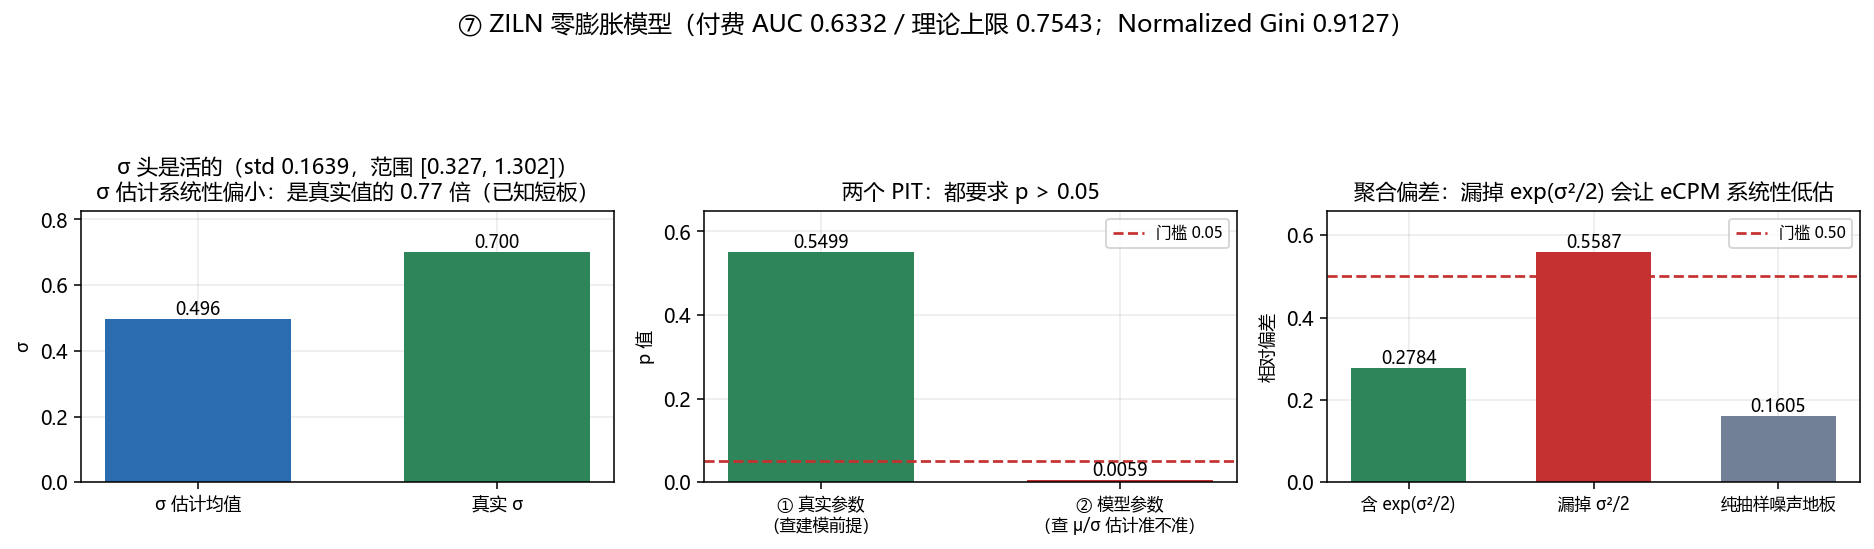
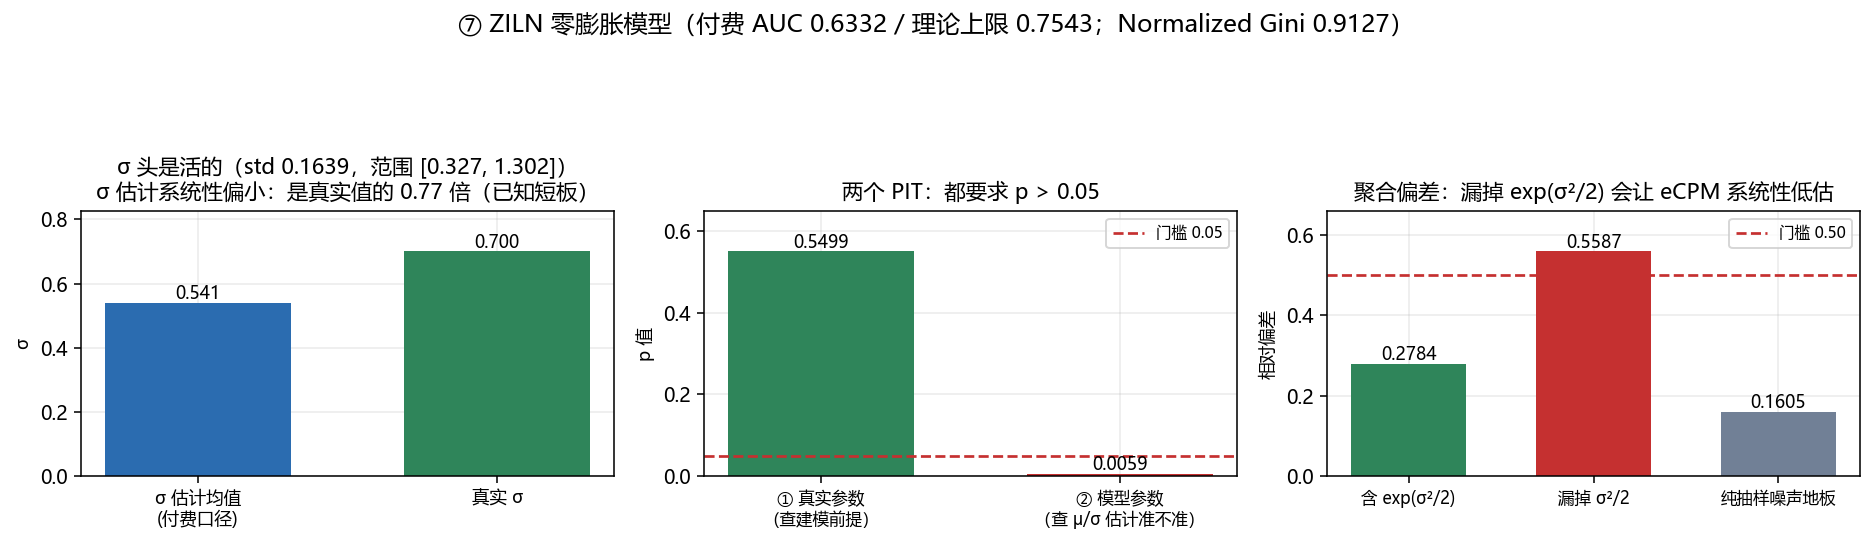
重新测试

diff --git a/tests/test_readme_numbers.py b/tests/test_readme_numbers.py
@@ -1,0 +1,224 @@
+"""README 里的数字必须能在 ``artifacts/metrics/*.json`` 里找到。
+
+这个文件的**唯一职责**是守住本项目那条对外承诺：
+
+    「README 里每个数字都来自真实运行输出，不编造」
+
+为什么值得单独一个测试文件
+--------------------------
+因为「数字错了」在这类项目里**不会报任何错**。模型照跑、图照出、测试照过，
+错的是一个手抄进文档的常量 —— 而读者看到的是它。
+
+而且踩过的坑是有规律的一类：**算在了错的对象上**。
+本项目已经栽过三次，每次的症状都一样「看着挺像那么回事」：
+
+  1. 画像宽度数了 ``profile.columns``（含 17 个簿记/隐变量列）→ 报 209，
+     真值 192；连带噪声占比的分母被撑大，44.8% 报成 41.1%。
+  2. 同一个 ``y_conv_w168`` 在曝光级是 0.0030、在点击级是 0.0575 —— 差了 19 倍。
+  3. ``sigma.mean``（全体，含 90% 的 y=0）和 ``ratio_to_true``（只有付费样本）
+     并排存进 json，名字像一对、实际是两个总体；两条 0.4964/0.70 = 0.709
+     与 0.772 对不上。``fig07`` 照着画也错了：柱子画 0.4964、标注写 0.77 倍。
+
+第 3 条就是写这个文件的直接原因 —— 它当初是从**文档**里看出来的，
+不是从测试里。所以补上这一层。
+
+怎么测（刻意选了「查字符串」而不是「解析 markdown」）
+----------------------------------------------------
+解析表格对 README 的排版改动极其脆弱（加一列、换个对齐就红），
+而这里真正要防的是**数值本身漂了**，不是排版。
+所以反过来做：从 json 取真值 → 按 README 声明的精度渲染成字符串 →
+断言它**确实出现在 README 文本里**。
+
+代价是：README 把某个数改成同值的另一种写法（0.0500 → 0.05）会误报。
+这个代价可以接受 —— 那种改动本来也该顺手看一眼。
+
+⚠ 本文件只用 ``assert``，不依赖 pytest 特有功能，
+   所以 ``pytest`` 和 ``run_tests.py`` 两条路都能跑（与其余测试一致）。
+"""
+from __future__ import annotations
+
+import json
+import os
+from pathlib import Path
+
+import pytest
+
+ROOT = Path(__file__).resolve().parents[1]
+METRIC_DIR = ROOT / "artifacts" / "metrics"
+README = ROOT / "README.md"
+
+SCALE = os.environ.get("ADREC_SCALE", "mini")
+
+STEPS = ["01_data", "02_features", "03_ranker", "04_recall", "05_ziln",
+         "06_bidding", "07_experiment", "08_bidding_sim", "09_figures"]
+
+
+@pytest.fixture(scope="module")
+def doc() -> str:
+    """README 全文。缺了就没法测，明确跳过而不是报一堆级联失败。"""
+    if not README.exists():
+        pytest.skip("README.md 不存在")
+    return README.read_text(encoding="utf-8")
+
+
+@pytest.fixture(scope="module")
+def js() -> dict[str, dict]:
+    """九个指标 json。缺任何一个都跳过 —— 这里的断言全是跨文件的。"""
+    missing = [s for s in STEPS if not (METRIC_DIR / f"{s}_{SCALE}.json").exists()]
+    if missing:
+        pytest.skip(f"链路未跑完，缺 {missing} —— 先跑：python run_all.py "
+                    f"--scale {SCALE}")
+    return {s: json.loads((METRIC_DIR / f"{s}_{SCALE}.json").read_text("utf-8"))
+            for s in STEPS}
+
+
+def must(doc: str, needle: str, why: str) -> None:
+    """断言 ``needle`` 出现在 README 里。
+
+    ``why`` 说明这个数在讲什么 —— 失败信息里带上它，
+    否则只看到「0.8110 not found」根本不知道是哪个指标漂了。
+    """
+    assert needle in doc, (
+        f"README 里找不到 {needle!r}（{why}）。"
+        f"要么指标 json 变了而文档没跟着改，要么文档里的数从来就没对过。")
+
+
+# ==================================================== 各环节的头条数字
+
+
+def test_data_headline_numbers(doc, js):
+    """职责点 1 的数据地基：基率 + 假负率。"""
+    d = js["01_data"]
+    must(doc, f"{d['ctr']:.4f}", "01 CTR 基率")
+    must(doc, f"{d['cvr']:.4f}", "01 CVR|click 基率")
+    fn = {r["window_h"]: r["fn_rate"] for r in d["false_negative"]}
+    for w in (6, 24, 72, 168):
+        must(doc, f"{fn[w] * 100:.1f}%", f"01 假负率（{w}h 观测窗口）")
+
+
+def test_feature_layer_numbers(doc, js):
+    """职责点 1 的特征与分层。
+
+    特别守住 **192** 这个数：它当初是 209（数错了对象），
+    而 209 会让「噪声占比」的分母被撑大、44.8% 被低估成 41.1%。
+    """
+    f = js["02_features"]
+    assert f["features"]["profile_columns"] == 192, (
+        "画像宽度不是 192 —— 若改了特征设计，README §4.2 的列数账要同步改")
+    must(doc, "192", "02 画像宽表列数")
+    must(doc, f"{f['features']['profile_noise_share'] * 100:.1f}%",
+         "02 噪声+冗余占比")
+    must(doc, f"{f['pca']['cumulative_variance']:.4f}", "02 PCA 累计方差")
+    must(doc, f"{f['kmeans']['ari_vs_true_segment']:.4f}", "02 ARI vs 真值分层")
+    must(doc, f"{f['kmeans']['silhouette']:.4f}", "02 轮廓系数")
+
+
+def test_ranker_ablation_numbers(doc, js):
+    """职责点 2 的排序消融：LR < FM < DeepFM 三个 AUC 都要对得上。"""
+    ab = {r["variant"]: r for r in js["03_ranker"]["ablation"]}
+    for v, name in (("lr", "LR"), ("fm", "FM"), ("deepfm", "DeepFM")):
+        must(doc, f"{ab[v]['auc_ctr']:.4f}", f"03 {name} 的 CTR AUC")
+    # 相对提升是 README 的核心主张，单独钉一次
+    gap = ab["deepfm"]["auc_ctr"] - ab["fm"]["auc_ctr"]
+    assert gap > 0.015, f"DeepFM 没打赢 FM 门槛（差 {gap:.4f}）"
+
+
+def test_recall_and_ziln_numbers(doc, js):
+    """职责点 2 的召回与 ZILN。"""
+    ps = {r["split"]: r["recall@50"] for r in
+          js["04_recall"]["recall"]["per_split"]}
+    must(doc, f"{ps['test']:.4f}", "04 Recall@50（test 折）")
+    must(doc, f"{js['04_recall']['recall']['popularity_baseline']:.4f}",
+         "04 热度基线")
+    z = js["05_ziln"]["metrics"]
+    must(doc, f"{z['auc_pay']:.4f}", "05 付费分类 AUC")
+    must(doc, f"{z['pit_assumption_pvalue']:.4f}", "05 前提 PIT p 值")
+    must(doc, f"{z['normalized_gini']:.4f}", "05 Normalized Gini")
+
+
+def test_ziln_sigma_caliber_is_not_conflated(doc, js):
+    """**回归守卫**：σ̂ 的两个口径不许被配成一对。
+
+    σ 是「付费金额」那一支的尺度参数，付费用户只占 10%。所以：
+
+        付费口径  mean_pos = 0.5405  ← 只有它能跟真实 σ=0.70 比 → 比值 0.772
+        全体口径  mean_all = 0.4964    含 90% 的 y=0 → 0.4964/0.70 = 0.709
+
+    踩过的坑：json 里曾经并排存 ``mean`` 与 ``ratio_to_true``，
+    名字像一对、实际是两个总体，于是 0.4964 配着 0.772 —— 自相矛盾。
+    README 也照抄了，``fig07`` 更是画了 0.4964 的柱子、标「0.77 倍」。
+
+    这里锁死两件事：① json 里每个比值都能由它**同名**的均值还原；
+    ② README 里出现的 0.772 必须与 0.5405 同处一句话，不许跟 0.4964 混。
+    """
+    sg = js["05_ziln"]["sigma"]
+    t = sg["true_sigma"]
+
+    # ① json 自洽：比值必须配得上同名均值
+    assert abs(sg["mean_pos"] / t - sg["ratio_pos_to_true"]) < 1e-9, \
+        "ratio_pos_to_true 不是 mean_pos/true_sigma —— 两个口径又串了"
+    assert abs(sg["mean_all"] / t - sg["ratio_all_to_true"]) < 1e-9, \
+        "ratio_all_to_true 不是 mean_all/true_sigma —— 两个口径又串了"
+
+    # 两个口径确实不同（否则这个测试是空转）
+    assert abs(sg["mean_pos"] - sg["mean_all"]) > 0.01, \
+        "两个口径算出同一个数 —— 那这个测试守不住任何东西，该删"
+
+    # ② 这两个数都在文档里
+    must(doc, f"{sg['mean_pos']:.4f}", "05 σ̂ 付费口径均值")
+    must(doc, f"{sg['mean_all']:.4f}", "05 σ̂ 全体口径均值")
+    must(doc, f"{sg['ratio_pos_to_true']:.3f}", "05 σ̂ 付费口径 vs 真实 σ 的比值")
+
+
+def test_bidding_numbers(doc, js):
+    """职责点 3：合成市场的六策略对照。"""
+    b = js["06_bidding"]
+    must(doc, f"+{b['headline']['lift_vs_fixed_bid'] * 100:.0f}%",
+         "06 B4 相对 B0 的价值提升")
+    must(doc, f"{b['headline']['ratio_b4_to_oracle']:.4f}", "06 B4 占上帝视角比例")
+    # 对偶梯度符号 —— 这条写反了整套控制就反向发散
+    g = b["dual_gradient_sign"]
+    assert g["overspend_lowers_alpha"] is True, "超支时 α 没有下降 —— 符号写反了"
+    assert g["underspend_raises_alpha"] is True, "欠花时 α 没有上升 —— 符号写反了"
+
+
+def test_experiment_numbers(doc, js):
+    """职责点 4：AA 空跑 + AB 主指标 + CUPED。"""
+    e = js["07_experiment"]
+    must(doc, f"{e['aa']['ks_pvalue']:.4f}", "07 AA 的 KS 均匀性 p 值")
+    must(doc, f"{e['aa']['false_positive_rate'] * 100:.2f}%", "07 AA 假阳性率")
+    must(doc, f"+{e['ab']['primary']['lift'] * 100:.2f}%", "07 AB 主指标相对提升")
+    must(doc, f"{e['ab']['cuped']['variance_reduction'] * 100:.2f}%",
+         "07 CUPED 方差下降")
+
+
+def test_real_model_bidding_numbers(doc, js):
+    """职责点 3 接真实模型那一版：水平系数 + 恒等性 + 最好变体。"""
+    s = js["08_bidding_sim"]
+    lc = s["setup"]["level_correction"]
+    for k, name in (("p_ctr", "pCTR"), ("p_cvr", "pCVR"), ("ltv", "LTV")):
+        must(doc, f"{lc[k]:.3f}", f"08 验证折上拟合的 {name} 水平系数")
+    ifx = s["identity_check"]
+    must(doc, f"{ifx['alpha_ratio_rel_dev'] * 100:.3f}%",
+         "08 水位之比相对 c 的偏差（协变性判据）")
+    best = s["best_variant"]
+    r = s["runs"][best]
+    must(doc, f"{r['ratio_b4_to_oracle']:.4f}", f"08 最好变体 {best} 的 B4/B5")
+    assert best == "dfm_raw", (
+        f"最好变体变成了 {best} —— README §6.7 的结论是按 dfm_raw 写的，要同步改")
+
+
+def test_budget_is_exogenous_across_runs(doc, js):
+    """08 的预算必须**外生且三次共用** —— 否则三个变体根本不可比。
+
+    B0（固定出价）与 B5（上帝视角）都与模型无关，所以三份仿真的这两个
+    策略必须逐位相同。若它们随模型变了，说明预算被偷偷接到了模型的
+    预测上，「同预算对比」这个前提就没了。
+    """
+    runs = js["08_bidding_sim"]["runs"]
+    for pol in ("B0_fixed", "B5_oracle"):
+        spends = [r["policies"][pol]["spend"] for r in runs.values()]
+        assert len(set(spends)) == 1, (
+            f"{pol} 的花费在三份仿真里不一致：{spends} —— "
+            f"预算不再外生，三个变体的对比不成立")
+    must(doc, "逐位相同", "08 预算外生性")

diff --git a/scripts/05_ziln.py b/scripts/05_ziln.py
@@ -188,9 +188,19 @@ def main() -> int:
     #
     # ⚠ 一开始我只做了 ②，p = 0.006，看着像「对数正态假设不成立、
     #    ZILN 从根上就是错的」。换成真实参数后 p 直接到 0.55 ——
-    #    **假设完全成立，是 σ̂ 估小了**（实测 σ̂ 均值约 0.39，
-    #    真实值 0.70）。把校准误差当成前提不成立，是最容易得出
+    #    **假设完全成立，是 σ̂ 估小了**（实测 σ̂ 均值 0.5405，
+    #    真实值 0.70，比值 0.772）。把校准误差当成前提不成立，是最容易得出
     #    反向结论的一步，所以这里两个都算、两个都报，门槛只压在 ① 上。
+    #
+    # ⚠ σ̂ 有**两个口径**，别混：σ 是「付费金额」这一头的尺度参数，
+    #    而付费用户只占 10%，所以
+    #        全体验证样本（含 90% 的 0）     mean_all = 0.4964
+    #        只取付费用户（y > 0）           mean_pos = 0.5405 ← 「估得准不准」看这个
+    #    拿 mean_all 去跟真实 σ=0.70 比会得出 0.709，与「偏小到 0.772」
+    #    的结论方向一致但数值对不上 —— 因为分母是对的、分子换了对象。
+    #    这条踩过：两个数一度以 ``mean`` / ``ratio_to_true`` 并排写进
+    #    metrics json，看起来像一对，实际是两个口径，连 fig07 都
+    #    照着画错（柱子画 0.4964、标注写 0.77 倍）。现在键名自带口径。
     #   ① 用**全表**的付费用户，不用验证折 —— 生成器的分布假设跟
     #      训练/验证怎么切没有任何关系，用满样本能把 KS 的统计功效
     #      从 88 个样本提到 352 个（388→88 会让 p 值纯靠抖动，
@@ -213,12 +223,14 @@ def main() -> int:
              else "前提不成立 ❌（生成器的金额分布实现有问题）")
     log.info("② 用**模型参数**：p = %.4f。这一步检验的是 μ̂/σ̂ 估得准不准，"
              "**不是**前提是否成立", pit_model)
-    log.info("σ̂ 均值 %.4f，真实值 %.4f，比值 %.2f —— "
+    log.info("σ̂ 均值 %.4f（**付费样本口径**，全体验证样本口径是 %.4f），"
+             "真实值 %.4f，比值 %.2f —— "
              "σ̂ 系统性偏小（是 %d 个用户级样本下这一头的已知短板，"
              "README 里如实记录）；σ̂ 偏小会放大 NLL 里的 "
-             "(ln y − μ̂)²/2σ̂² 项",
-             float(sigma[pos].mean()), cfg.ltv_sigma, sigma_ratio,
-             len(tr_idx))
+             "(ln y − μ̂)²/2σ̂² 项。**只有付费口径能跟真实 σ 比** —— "
+             "σ 描述的是 y>0 那一支的尺度",
+             float(sigma[pos].mean()), float(sigma.mean()),
+             cfg.ltv_sigma, sigma_ratio, len(tr_idx))
 
     # ---------------- 聚合偏差：这一步的核心 ----------------
     # 参照系的选择决定了这个数有没有意义，选错了就是白算：
@@ -294,11 +306,20 @@ def main() -> int:
                   "epochs": ZILN_EPOCHS, "batch": ZILN_BATCH,
                   "steps": int(n_steps),
                   "loss_first": losses[0], "loss_last": losses[-1]},
+        # ⚠ σ̂ 两个口径**必须分开存、键名自带口径**。
+        #    原先只有 ``mean``（全体，含 90% 的 y=0）和 ``ratio_to_true``
+        #    （只有付费样本）两个键并排 —— 名字看着是一对，实际是两个
+        #    总体，于是 json 自己跟自己矛盾（0.4964 配 0.772，而
+        #    0.4964/0.70 = 0.709）。fig07 照着画就画错了：柱子 0.4964、
+        #    标注「是真实值的 0.77 倍」。
+        #    比值只能配**付费口径** —— σ 是 y>0 那一支的尺度参数。
         "sigma": {"min": float(sigma.min()), "max": float(sigma.max()),
                   "std": float(sigma.std()),
-                  "mean": float(sigma.mean()),
+                  "mean_all": float(sigma.mean()),
+                  "mean_pos": float(sigma[pos].mean()),
                   "true_sigma": float(cfg.ltv_sigma),
-                  "ratio_to_true": sigma_ratio},
+                  "ratio_pos_to_true": sigma_ratio,
+                  "ratio_all_to_true": float(sigma.mean() / cfg.ltv_sigma)},
         "metrics": {"auc_pay": auc_pay, "auc_oracle": auc_oracle,
                     "pit_assumption_pvalue": pit_assumption,
                     "pit_model_pvalue": pit_model,

diff --git a/scripts/09_make_figures.py b/scripts/09_make_figures.py
@@ -355,10 +355,16 @@ def fig07(d, cfg) -> str | None:
         return None
     sg, m = d["sigma"], d["metrics"]
     fig, ax = plt.subplots(1, 3, figsize=(13.5, 3.9))
-    _bar(ax[0], ["σ 估计均值", "真实 σ"], [sg["mean"], sg["true_sigma"]],
+    # ⚠ 这里画 **mean_pos**（付费样本口径），不画 mean_all。
+    #    σ 是「付费金额」那一支的尺度参数，只有 y>0 的样本在估它；
+    #    全体验证样本里有 90% 是 y=0，把它们平均进来会把 σ̄ 拉到 0.4964，
+    #    跟真实 0.70 一比是 0.709 —— 而标注引的是比值 0.772，**柱子跟
+    #    标注对不上**。两个口径都在 json 里（mean_all / mean_pos），
+    #    图只画能跟真实 σ 比的那一个。
+    _bar(ax[0], ["σ 估计均值\n(付费口径)", "真实 σ"], [sg["mean_pos"], sg["true_sigma"]],
          [C["b"], C["g"]], f"σ 头是活的（std {sg['std']:.4f}，"
          f"范围 [{sg['min']:.3f}, {sg['max']:.3f}]）\n"
-         f"σ 估计系统性偏小：是真实值的 {sg['ratio_to_true']:.2f} 倍（已知短板）",
+         f"σ 估计系统性偏小：是真实值的 {sg['ratio_pos_to_true']:.2f} 倍（已知短板）",
          "σ", "{:.3f}")
 
     # 两个 PIT 的 p 值：同一个统计量、两个完全不同的问题

diff --git a/README.md b/README.md
@@ -113,7 +113,9 @@ advertising recommending system/
 │   ├── models/      各模型权重
 │   ├── metrics/     每步一份 json（本文档数字的唯一来源）
 │   └── figures/     九张图
-└── tests/           conftest + 7 个单元测试文件 + test_integration.py
+└── tests/           conftest + 8 个单元测试文件 + test_integration.py
+                     （含 test_readme_numbers.py —— 守着「本文档每个数字
+                       都能在 metrics/*.json 里找到」这条承诺）
 ```
 
 **关键复用**：`src/models/layers.py` 的 `EmbeddingBank` 是**唯一**的特征编码器，
@@ -393,9 +395,17 @@ L_ZILN = BCE(p, 1{y>0})  +  (1/Σ1{y>0}) Σ_{y>0} [ ln y + ln σ + ½ln2π + (ln
 | 模型的 μ̂、σ̂ | 参数估得准不准（**校准程度**） | **0.0059** | 估得不够准 ⚠ |
 
 > ⚠ 只做第二个会看到 p=0.0059，然后得出「对数正态假设不成立、ZILN 从根上就是
-> 错的」—— 而真相只是 **σ̂ 估小了**（σ̂ 均值 0.4964，真实 0.70，比值 **0.772**）。
+> 错的」—— 而真相只是 **σ̂ 估小了**。
 > **门槛只压在第一个上**；第二个如实报出，并额外卡一条「σ̂/真实σ ∈ [0.4, 2.0]」
 > 防止 σ 头退化。σ 是活的（std 0.1639，范围 [0.327, 1.302]），不是常数。
+>
+> ⚠ 这个「σ̂」有**两个口径**，写文档时差点把两个数配成一对：σ 是 `y>0`
+> 那一支的尺度参数，而付费用户只有 10%，所以
+> **付费样本口径 σ̂ = 0.5405**（真实 0.70，比值 **0.772** ← 该跟真实 σ 比的是这个），
+> **全体验证样本口径 σ̂ = 0.4964**（含 90% 的 `y=0`，比值 0.709，但拿它比没有意义）。
+> 一度把 0.4964 和 0.772 并排写进 json 与本文档 —— 0.4964/0.70 = 0.709，
+> **数字自相矛盾**；`fig07` 照着画也错了（柱子画 0.4964、标注写「0.77 倍」）。
+> 现在两个口径在 json 里分别叫 `mean_pos` / `mean_all`，图只画能跟真实 σ 比的那个。
 
 ---
 
@@ -831,6 +841,16 @@ LEAST(168.0,
   报出 209 列（真值 192），噪声占比也被摊薄成 41.1%（真值 44.8%）。
   症状是那行日志的右边加起来对不上左边。**这类错误不会让任何测试失败** ——
   它只是把数字说大了一点，而数字正好会被抄进 README。详见 §4.2。
+- **同一个名字的两套口径，绝不能并排存** —— 本项目的第三次栽跟头。
+  前两次是「曝光级 vs 点击级」（§4.1）和上面的 209/192；第三次是 ZILN 的 σ̂：
+  `sigma.mean`（全体，含 90% 的 `y=0`）和 `sigma.ratio_to_true`（只有付费样本）
+  被当成一对存进 json，于是 `0.4964 / 0.70 = 0.709` 与写着的 `0.772` 对不上 ——
+  **文件自己跟自己矛盾**，`fig07` 照着画也错了（柱子画 0.4964、标注写「0.77 倍」）。
+  现在两个口径分别叫 `mean_pos` / `mean_all`，**键名自带口径**。
+- 因此新增 `tests/test_readme_numbers.py`：把「本文档每个数字都能在
+  `artifacts/metrics/*.json` 里找到」变成一条**会失败的断言**。
+  上面三条错的共同点是 —— 全都**不会让任何测试变红**，只是安静地写进文档。
+  这个文件就是专门补这一层的（σ 口径那条还单独设了回归守卫）。
 
 ### Windows 控制台编码（一类**静默**故障）
 
@@ -872,7 +892,7 @@ Windows 上 Python 的 stdout 默认是 **GBK（cp936）**，于是：
 |---|---|---|---|
 | 1 | **召回层几乎没打赢热度基线** | Recall@50 test **0.3454** vs 热度 **0.3336**，只高 1.2pp | mini 档只有 400 素材，候选集太小。full 档（2000 素材）重测；加难负样本 |
 | 2 | **接真实模型后 B4/B5 只有 0.46** | 合成数据上是 0.9524，真模型上 0.4620 | 这是排序问题不是水平问题。方向：重训模型 / 直接校准乘积的**排序**（保序回归）|
-| 3 | **ZILN 的 σ̂ 系统性偏小** | σ̂ 均值 **0.4964** vs 真实 **0.70**（比值 0.772），模型 PIT p=0.0059 | 用户级样本太少（mini 3000）。加样本 / 对 σ 头单独调学习率 / 换更重尾的分布 |
+| 3 | **ZILN 的 σ̂ 系统性偏小** | σ̂ 均值 **0.5405**（付费口径，`mean_pos`）vs 真实 **0.70**，比值 **0.772**；模型 PIT p=0.0059 | 用户级样本太少（mini 3000）。加样本 / 对 σ 头单独调学习率 / 换更重尾的分布 |
 | 4 | **乘积聚合偏差仍有 54%** | 校准前后 0.8074 → **0.5434** | 逐头校准修不了乘积。应在观测收入上直接拟合一个标量校准 |
 | 5 | **PCA 只解释 81.1%** | 40 维累计方差 **0.8110** | 有意的取舍：40 维之外主要是注入的 60 列噪声。ARI 0.9949 说明够用 |
 | 6 | **SMOTE 未进主路径** | 仅作消融对照（正率 0.166 → 0.285） | 下采样 + 先验校正已足够；SMOTE 在时序数据上有泄漏风险 |
